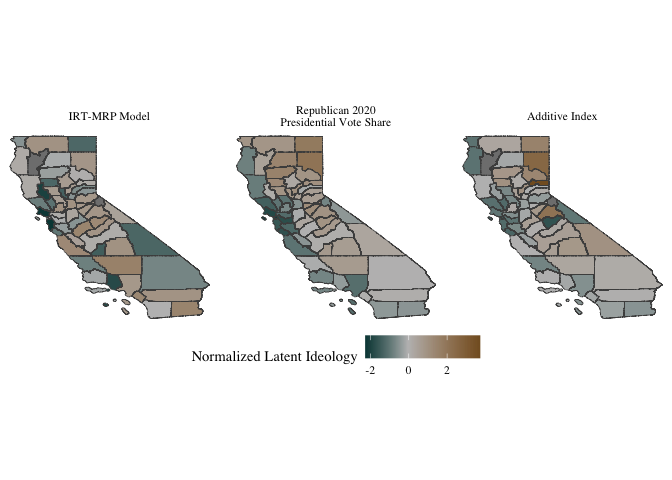
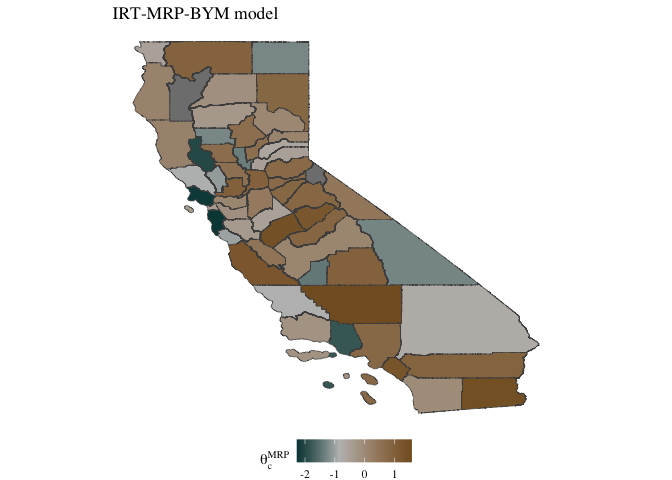
readme draft

diff --git a/README.md b/README.md
@@ -31,9 +31,38 @@ incorporating this spatial autocorrelation.[^2]
 
 ## Results
 
+Below are the results of the full **IRT-MRP-BYM** model for the county
+ideology parameter $\theta_c^{MRP}$. The coastal counties of San Mateo,
+Marin, and Ventura are among the most liberal, whereas the most
+conservative counties are in the Central Valley (Kern, Merced).
+
 ![](README_files/figure-commonmark/unnamed-chunk-2-1.png)
+
+In contrast to the $\theta_c^{MRP}$ model estimates, if we were to
+construct a simple additive scale of ideology based on the thirteen
+survey questions (scaled), we get a very different picture of
+Californian politics. According to the additive index, Mariposa (dark
+green in the center of the map) is the most liberal county in the state.
+This defies common sense for a county which has voted for the Republican
+candidate every year since 1992.[^3]
+
+![](README_files/figure-commonmark/unnamed-chunk-3-1.png)
+
+## Notes
+
+- For the full paper:
+  [paper.qmd](https://github.com/bwilden/spatial-irt/blob/main/paper.pdf)
+- For the full model code in Stan:
+  [ideal_mrp.stan](https://github.com/bwilden/spatial-irt/blob/main/stan/ideal_mrp.stan)
+- For R code and cleaning steps:
+  [\_targets.R](https://github.com/bwilden/spatial-irt/blob/main/_targets.R)
+  and [R files](https://github.com/bwilden/spatial-irt/tree/main/R)
 
 [^1]: I’m open to any suggestions on a catchier name.
 
 [^2]: See [Gao, Kennedy, Simpson, and Gelman
     2020](https://arxiv.org/abs/1908.06716) for using BYM in MRP models.
+
+[^3]: MIT Election Data and Science Lab, 2018, “County Presidential
+    Election Returns 2000-2020”, <https://doi.org/10.7910/DVN/VOQCHQ>,
+    Harvard Dataverse, V12.
